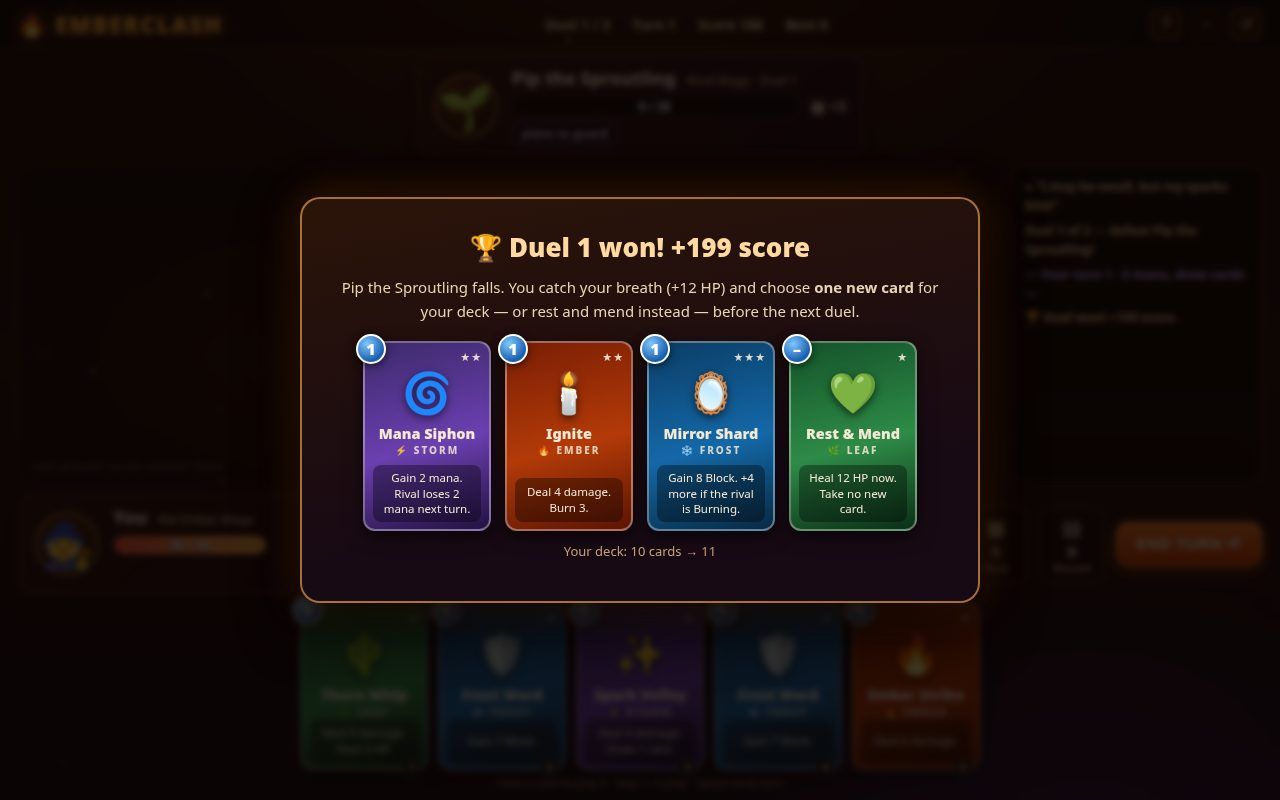
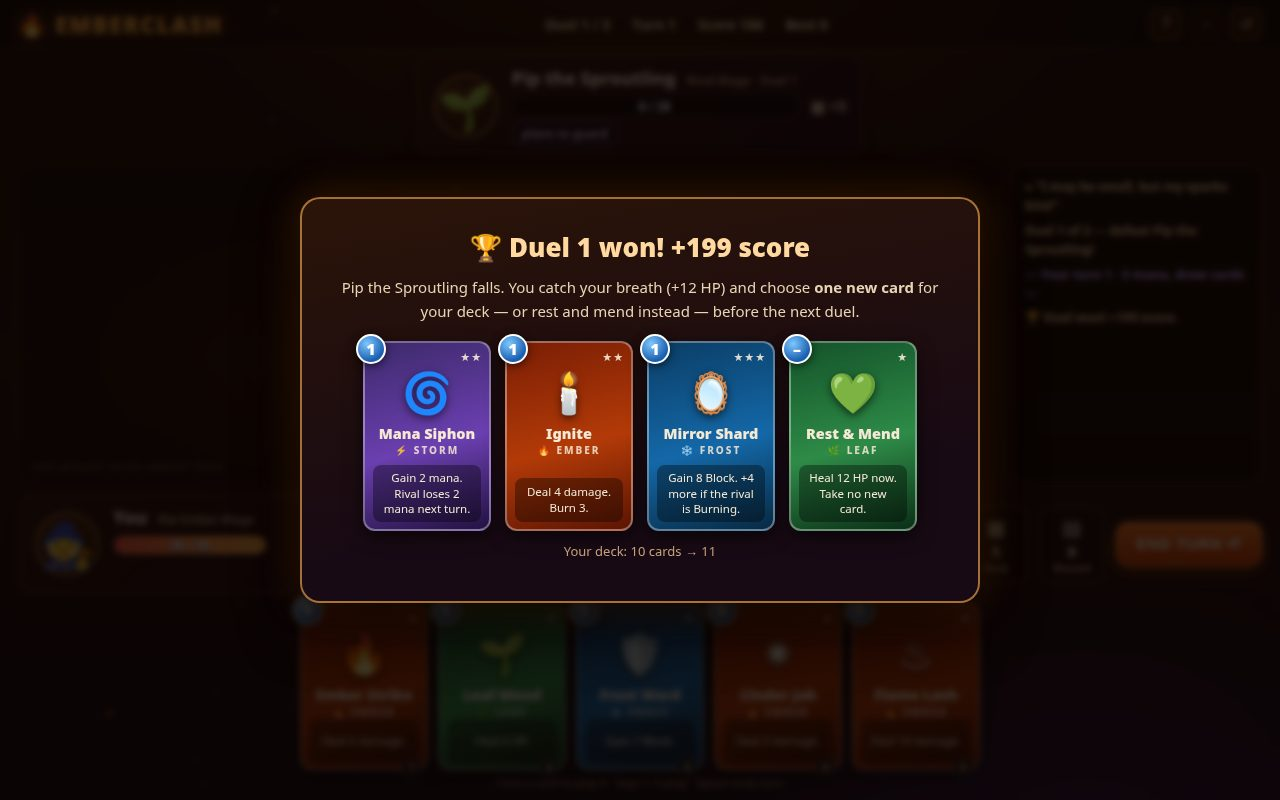
Full heal between duels; draft 4th option becomes Second Wind (+2 max HP, heal 12)

diff --git a/game/src/game.js b/game/src/game.js
@@ -43,7 +43,7 @@ export class Game {
     this.foeTauntedLow = false;
     this.playerTauntedLow = false;
     this.lastPlayed = [];
-    this.playerHp = this.duelIndex === 0 ? 30 : Math.min(30, this.playerHp + 12);
+    this.playerHp = this.duelIndex === 0 ? 30 : this.playerMax;
     this.playerMax = 30;
     this.playerBlock = 0;
     this.playerBurn = 0;
@@ -375,7 +375,7 @@ export class Game {
     sfx.draft();
     this.showOverlay(`
       <h2>🏆 Duel ${this.duelIndex + 1} won! +${gained} score</h2>
-      <p>${this.opp.name} falls. You catch your breath (+12 HP) and choose <b>one new card</b> for your deck — or rest and mend instead — before the next duel.</p>
+      <p>${this.opp.name} falls. You catch your breath (fully healed) and choose <b>one new card</b> for your deck — or take Second Wind instead — before the next duel.</p>
       <div class="draftRow" id="draftRow"></div>
       <p class="sub">Your deck: ${this.deckIds.length} cards → ${this.deckIds.length + 1}</p>
     `);
@@ -394,22 +394,23 @@ export class Game {
       };
       row.appendChild(el);
     });
-    // Fourth choice: rest instead of drafting — mend wounds, take no card.
+    // Fourth choice: Second Wind — mend wounds and raise max HP, take no card.
     const rest = document.createElement('div');
     rest.className = 'card el-leaf';
     rest.innerHTML = `
       <div class="cost">–</div>
       <div class="rarity">★</div>
       <div class="cicon">💚</div>
-      <div class="cname">Rest &amp; Mend</div>
+      <div class="cname">Second Wind</div>
       <div class="celem">🌿 LEAF</div>
-      <div class="ctext">Heal 12 HP now. Take no new card.</div>
+      <div class="ctext">Heal 12 HP and gain +2 max HP. Take no new card.</div>
     `;
     rest.onclick = () => {
+      this.playerMax = Math.min(40, this.playerMax + 2);
       const real = Math.min(12, this.playerMax - this.playerHp);
       this.playerHp += real;
       sfx.heal();
-      this.log('sys', `💚 You rest and mend ${real} HP.`);
+      this.log('sys', `💚 Second Wind: +2 max HP, mended ${real} HP.`);
       this.hideOverlay();
       this.duelIndex += 1;
       this.startDuel();
